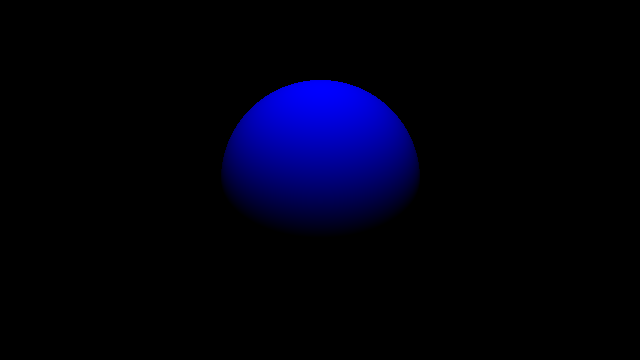
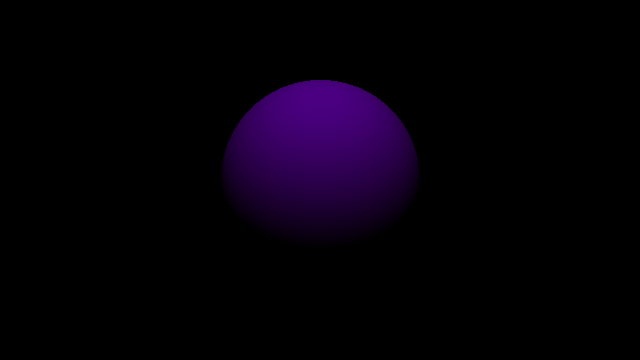
change sphere to purple and responsive to xl

Changed region(s): [[0.3438, 0.2139, 0.6562, 0.6111]]

diff --git a/_layouts/home.html b/_layouts/home.html
@@ -7,10 +7,12 @@
 
     <!-- Bootstrap CSS (Darkly theme) -->
     <link href="{{ 'assets/css/slate.min.css' | relative_url }}" rel="stylesheet">
+    
+    <link rel="stylesheet" href="{{ 'assets/css/style.css' | relative_url }}" />
     <title>{{ page.title }}</title>
   </head>
   <body>
-    <div class="container offset-md-3 col-md-6 my-3">
+    <div class="container offset-xl-3 col-xl-6 my-3">
       {{ content }}
     </div>
 

diff --git a/_layouts/default.html b/_layouts/default.html
@@ -12,7 +12,7 @@
     <title>{{ page.title }}</title>
   </head>
   <body>
-    <div class="container offset-md-3 col-md-6 my-3">
+    <div class="container offset-xl-3 col-xl-6 my-3">
       {{ content }}
     </div>
 

diff --git a/assets/css/style.scss b/assets/css/style.scss
@@ -9,6 +9,7 @@ img {
 
 p {
   margin-top: 5%;
+  margin-bottom: 5%;
 }
 
 @media (min-width: 768px) {
@@ -18,7 +19,7 @@ p {
 }
 
 @media (min-width: 992px) {
-  html {
+  body {
     font-size: 1.1rem;
   }
 }

diff --git a/part-1/main.py b/part-1/main.py
@@ -8,16 +8,17 @@ from sphere import Sphere
 
 
 OUTPUT_FILENAME = "img.png"
+MAX_COLOR_VALUE = 255
 
 
 def main():
     # Create sphere
     sphere_pos = np.array([0, 0, 1.5])
     sphere_rad = 0.4
-    color_blue = np.array([0, 0, 1])
-    sphere = Sphere(sphere_pos, sphere_rad, color_blue)
+    color_purple = np.array([75 / MAX_COLOR_VALUE, 0, 130 / MAX_COLOR_VALUE])
+    sphere = Sphere(sphere_pos, sphere_rad, color_purple)
     # Create light
-    light_pos = np.array([0, 2, 0])
+    light_pos = np.array([0, 1.5, 0])
     light = PointLight(light_pos)
     # Create camera
     camera_pos = np.array([0, 0, 0])

diff --git a/part-1/index.md b/part-1/index.md
@@ -8,7 +8,7 @@ title: Raytracing para todos - Parte 1
 # Parte 1
 
 El objetivo de esta parte es poder generar nuestra primera imagen que será una
-esfera de color azul con fondo negro.
+esfera de color morado con fondo negro.
 
 Para hacer esto vamos a ver las siguientes cosas:
 
@@ -297,16 +297,17 @@ from sphere import Sphere
 
 
 OUTPUT_FILENAME = "img.png"
+MAX_COLOR_VALUE = 255
 
 
 def main():
     # Create sphere
     sphere_pos = np.array([0, 0, 1.5])
     sphere_rad = 0.4
-    color_blue = np.array([0, 0, 1])
-    sphere = Sphere(sphere_pos, sphere_rad, color_blue)
+    color_purple = np.array([75 / MAX_COLOR_VALUE, 0, 130 / MAX_COLOR_VALUE])
+    sphere = Sphere(sphere_pos, sphere_rad, color_purple)
     # Create light
-    light_pos = np.array([0, 2, 0])
+    light_pos = np.array([0, 1.5, 0])
     light = PointLight(light_pos)
     # Create camera
     camera_pos = np.array([0, 0, 0])
